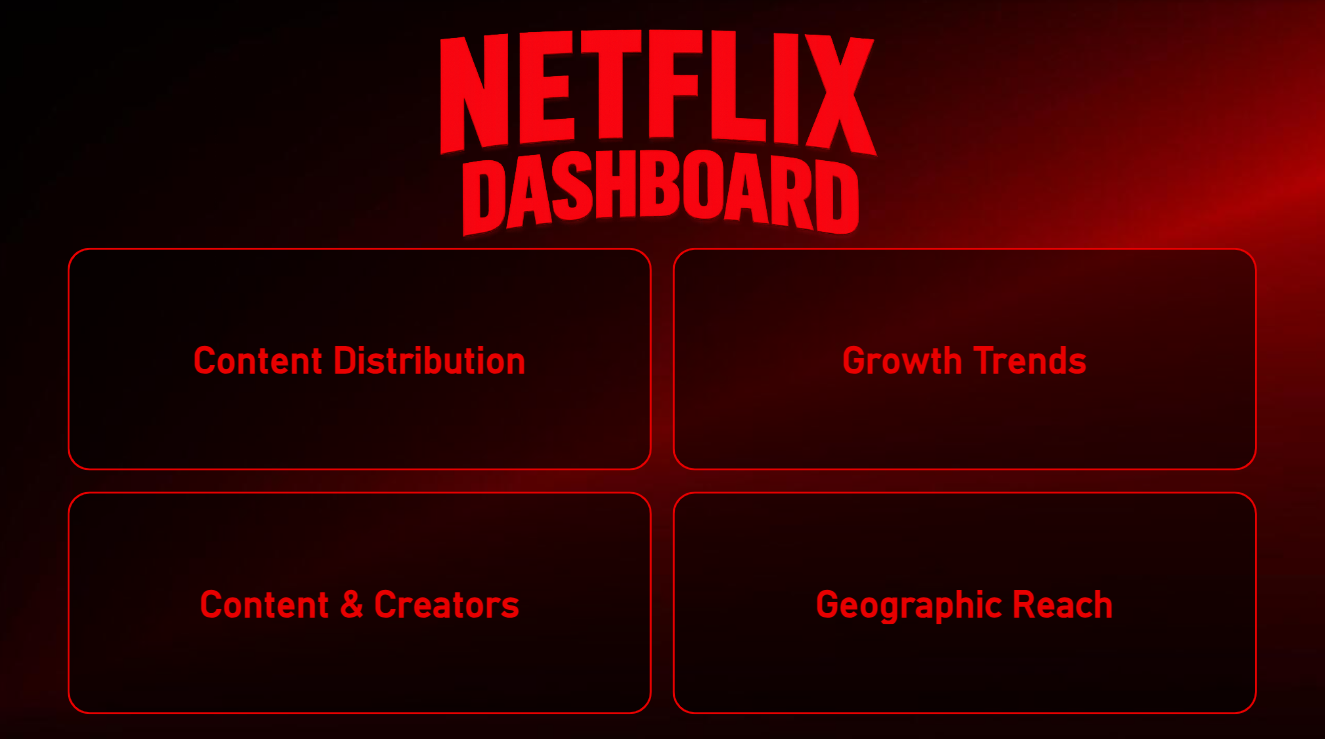
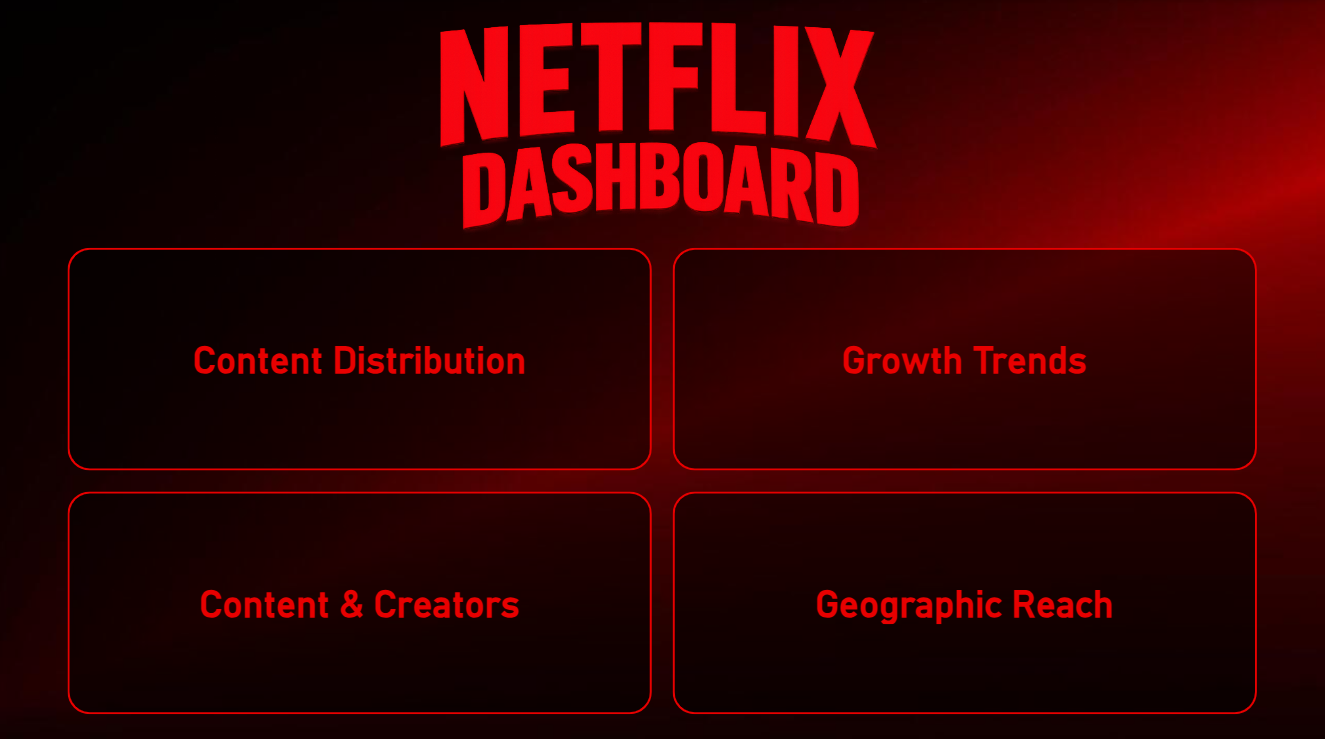
changes

Changed region(s): [[0.3094, 0.0311, 0.6808, 0.3424]]

diff --git a/README.md b/README.md
@@ -286,6 +286,6 @@ All 16 result-set CSVs were imported into Power BI via Power Query. Data types w
 ## 👤 Author
 
 **Harsh Menon**
-Aspiring Data Analyst — Excel · SQL · Power BI
+— Aspiring Data Analyst — Excel · SQL · Power BI
 
 [![GitHub](https://img.shields.io/badge/GitHub-HarshMenon78-181717?style=flat&logo=github)](https://github.com/HarshMenon78)